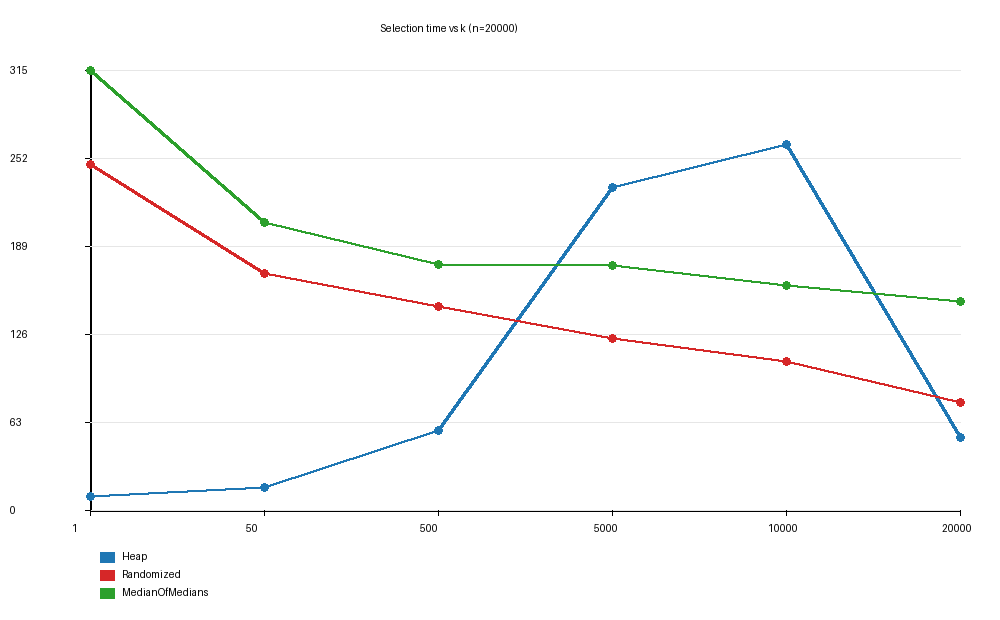
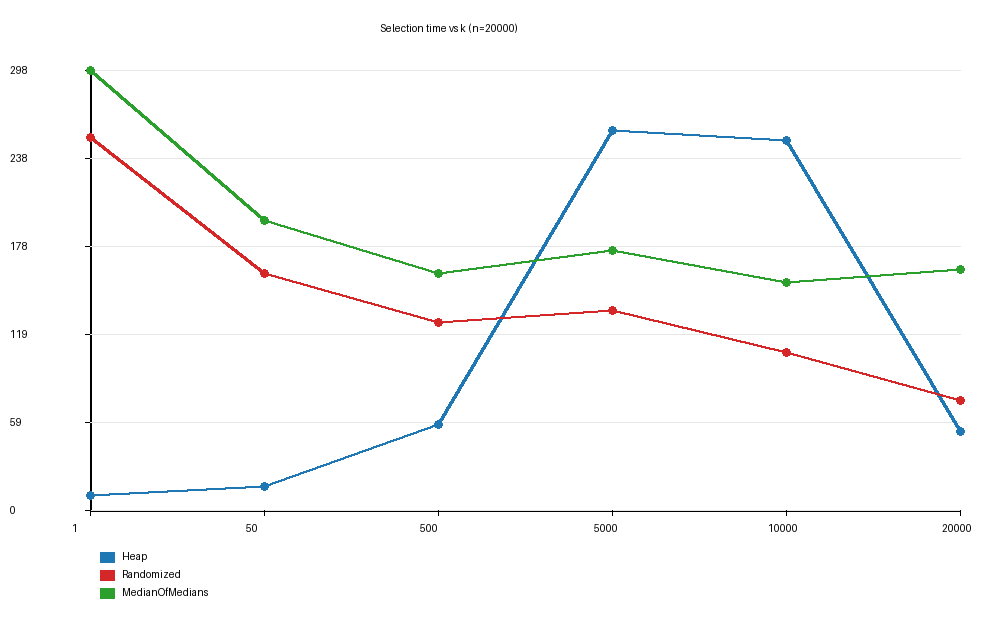
Fix midterm_project bug & add gitignore

diff --git a/Midterm_Major_Project/src/selection.cpp b/Midterm_Major_Project/src/selection.cpp
@@ -48,7 +48,9 @@ int randomizedSelect(vector<int> values, int k) {
     while (left <= right) {
         uniform_int_distribution<int> dist(left, right);
         int pivotValue = values[dist(rng)];
-        auto [lt, gt] = partitionThreeWay(values, left, right, pivotValue);
+        pair<int, int> bounds = partitionThreeWay(values, left, right, pivotValue);
+        int lt = bounds.first;
+        int gt = bounds.second;
         if (target < lt) {
             right = lt - 1;
         } else if (target > gt) {
@@ -77,7 +79,9 @@ int medianOfMedians(vector<int>& values, int left, int right, int target) {
     }
 
     int pivotValue = medianOfMedians(values, left, left + medianCount - 1, left + medianCount / 2);
-    auto [lt, gt] = partitionThreeWay(values, left, right, pivotValue);
+    pair<int, int> bounds = partitionThreeWay(values, left, right, pivotValue);
+    int lt = bounds.first;
+    int gt = bounds.second;
 
     if (target < lt) {
         return medianOfMedians(values, left, lt - 1, target);
@@ -124,9 +128,16 @@ int main() {
         }
     }
 
-    auto [heapResult, heapTime] = timedSelect([&]() { return heapSelect(values, k); });
-    auto [randomResult, randomTime] = timedSelect([&]() { return randomizedSelect(values, k); });
-    auto [medianResult, medianTime] = timedSelect([&]() { return medianOfMediansSelect(values, k); });
+    pair<int, long long> heapMeasured = timedSelect([&]() { return heapSelect(values, k); });
+    pair<int, long long> randomMeasured = timedSelect([&]() { return randomizedSelect(values, k); });
+    pair<int, long long> medianMeasured = timedSelect([&]() { return medianOfMediansSelect(values, k); });
+
+    int heapResult = heapMeasured.first;
+    long long heapTime = heapMeasured.second;
+    int randomResult = randomMeasured.first;
+    long long randomTime = randomMeasured.second;
+    int medianResult = medianMeasured.first;
+    long long medianTime = medianMeasured.second;
 
     cout << "Input size: " << n << '\n';
     cout << "k: " << k << '\n';

diff --git a/Midterm_Major_Project/src/partition.cpp b/Midterm_Major_Project/src/partition.cpp
@@ -157,13 +157,17 @@ int main() {
     cout << "Total value: " << accumulate(values.begin(), values.end(), 0) << '\n';
 
     if (values.size() <= 22) {
-        auto [brute, bruteTime] = timedPartition([&]() { return bruteForcePartition(values); });
+        pair<Division, long long> bruteMeasured = timedPartition([&]() { return bruteForcePartition(values); });
+        Division brute = bruteMeasured.first;
+        long long bruteTime = bruteMeasured.second;
         printDivision("BruteForce", brute, bruteTime);
     } else {
         cout << "BruteForce skipped: n exceeds 22\n";
     }
 
-    auto [dynamic, dynamicTime] = timedPartition([&]() { return dynamicProgrammingPartition(values); });
+    pair<Division, long long> dynamicMeasured = timedPartition([&]() { return dynamicProgrammingPartition(values); });
+    Division dynamic = dynamicMeasured.first;
+    long long dynamicTime = dynamicMeasured.second;
     printDivision("DynamicProgramming", dynamic, dynamicTime);
 
     return 0;

diff --git a/Midterm_Major_Project/scripts/generate_report.py b/Midterm_Major_Project/scripts/generate_report.py
@@ -303,7 +303,7 @@ def generate_report(
     title.alignment = WD_ALIGN_PARAGRAPH.CENTER
     document.add_paragraph("题目：分治算法、动态规划、贪心算法综合实现")
     document.add_paragraph("学号：学号待填写    姓名：姓名待填写")
-    document.add_paragraph("编程语言及环境：C++17，Apple clang 21.0.0，CMake 4.3.1；报告由 python-docx 生成。")
+    document.add_paragraph("编程语言及环境：C++11，Apple clang 21.0.0，CMake 4.3.1；报告由 python-docx 生成。")
 
     document.add_heading("一、分治算法：第 k 小元素", level=1)
     document.add_paragraph(

diff --git a/Midterm_Major_Project/题目讲解.md b/Midterm_Major_Project/题目讲解.md
@@ -6,7 +6,7 @@
 
 ```text
 .
-├── CMakeLists.txt                   # CMake 构建配置，统一编译 3 个 C++17 程序
+├── CMakeLists.txt                   # CMake 构建配置，统一编译 3 个 C++11 程序
 ├── src/
 │   ├── selection.cpp                # 题目一：第 k 小元素选择
 │   ├── partition.cpp                # 题目二：卡牌价值二分